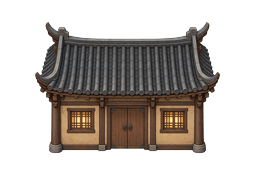
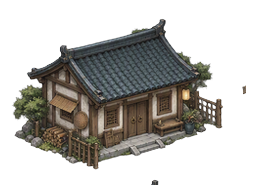
v0.33.0 逆尘：立体感 D —— 11 栋斜俯视 2.5D 建筑素材
拿到完整斜俯视观感的最后一步（前几步 A 接触阴影 / B 树加高 / C 建筑基座已做）。

1. 文生图出了 **11 栋斜俯视 2.5D 建筑**：house / shop / apothecary / smithy / alchemy /
   inn / temple / hall / tower / gate / ruin。
   每栋都**看得见屋顶 + 正面墙 + 门窗 + 基座** —— 这才是"斜俯视"的观感来源
   （正俯视只能看到屋顶，所以此前像"贴纸"）。
2. 出图方式：两张 **2×3 建筑集**（省额度），切片后各自等比内含进 256×192。
3. 取图链不变（`struct.<bk>` 优先、退回 `struct.<kind>`），只是把素材换成了 2.5D 的。
4. manifest 137 → 143 键。
5. ⚠ 匾额仍然**矢量叠加**（_drawPlaque），绝不烘进素材图 ——
   生图里的中文必然是乱码，且同一张图要复用到不同建筑。

验证：五条无头测试全绿；_shots/06b_solid_town.png 可见 2.5D 建筑。

diff --git a/www/assets/manifest.js b/www/assets/manifest.js
@@ -136,10 +136,16 @@
     "skill.shui": "assets/img/skill.shui.png",
     "skill.tu": "assets/img/skill.tu.png",
     "skill.wu": "assets/img/skill.wu.png",
+    "struct.alchemy": "assets/img/struct.alchemy.png",
     "struct.apothecary": "assets/img/struct.apothecary.png",
     "struct.gate": "assets/img/struct.gate.png",
+    "struct.hall": "assets/img/struct.hall.png",
     "struct.house": "assets/img/struct.house.png",
+    "struct.inn": "assets/img/struct.inn.png",
     "struct.ruin": "assets/img/struct.ruin.png",
-    "struct.shop": "assets/img/struct.shop.png"
+    "struct.shop": "assets/img/struct.shop.png",
+    "struct.smithy": "assets/img/struct.smithy.png",
+    "struct.temple": "assets/img/struct.temple.png",
+    "struct.tower": "assets/img/struct.tower.png"
   };
 })(typeof window !== 'undefined' ? window : this);

diff --git a/www/js/core/ns.js b/www/js/core/ns.js
@@ -3,4 +3,4 @@ window.G = window.G || {};
 /* 游戏内版本号（标题「关于」与关于页显示）。
    ⚠ **必须与 HANDOVER.md 头部「代码版本」一致** —— 它从 v0.0.2 起就没再同步过，
    一直显示成初始占位（v0.12.0 才发现）。由 smoke 的 `version.contract` 钉住。 */
-G.VERSION = 'v0.32.0';
+G.VERSION = 'v0.33.0';

diff --git a/tools/assets-build.py b/tools/assets-build.py
@@ -208,6 +208,16 @@ SIZES = {
     #   建筑尺寸从 3×5 到 6×5 都有，拉伸会让门窗比例各不相同。
     #   ⚠ 建筑名字一律**矢量叠加**（explore.js: _drawPlaque），**不要烘进图里**：
     #      生图里的中文必然是乱码，而且同一张图要复用到不同建筑。
+    # 建筑（v0.33.0 重出：**斜俯视 2.5D** —— 看得见屋顶 + 正面墙 + 门窗 + 基座）。
+    #   取图键 `struct.<bk>`（bk = 建筑类型：house/shop/apothecary/smithy/alchemy/inn/
+    #   temple/hall/tower/gate），没写 bk 才退回 `struct.<kind>`。
+    #   ⚠ 建筑匾额**一律矢量叠加**（explore.js: _drawPlaque），绝不烘进素材图。
+    'struct.smithy': (256, 192),
+    'struct.alchemy': (256, 192),
+    'struct.inn': (256, 192),
+    'struct.temple': (256, 192),
+    'struct.hall': (256, 192),
+    'struct.tower': (256, 192),
     'struct.house': (256, 192),
     'struct.apothecary': (256, 192),
     'struct.shop': (256, 192),

diff --git a/HANDOVER.md b/HANDOVER.md
@@ -1,6 +1,13 @@
 # 《逆尘》开发交接文档
 
-> 最后更新：2026-09-27 · 代码版本 **v0.32.0（面板滑入）** · 前一里程碑 v0.31.0
+> 最后更新：2026-09-27 · 代码版本 **v0.33.0（立体感 D：建筑斜俯视素材）** · 前一里程碑 v0.32.0
+> 本次增量（详见 §8 顶部）：
+> **立体感 D —— 重出建筑素材**（拿到完整斜俯视观感的最后一步）：
+> 用文生图出了 **11 栋斜俯视 2.5D 建筑**（house / shop / apothecary / smithy / alchemy /
+> inn / temple / hall / tower / gate / ruin）—— 每栋都**看得见屋顶 + 正面墙 + 门窗 + 基座**。
+> 出图方式：两张 **2×3 建筑集**（省额度），切片后各自等比内含进 256×192。
+> manifest 137 → **143 键**。取图链不变（`struct.<bk>` 优先、退回 `struct.<kind>`）。
+> ⚠ 匾额仍然**矢量叠加**（`_drawPlaque`），绝不烘进素材图。
 > 本次增量（详见 §8 顶部）：
 > **面板滑入**（用户多轮口径：「整个游戏还是和 PPT 网页一样」）——
 > 面板**直接出现**是"像 PPT"的典型症状之一。0.18s 内从下方 10px 滑到位 + 淡入（easeOutQuad）。
@@ -170,7 +177,7 @@
 | 打包 | Capacitor（`capacitor.config.json` 已配好，**但 `android/` 还没 init**） |
 | **线上试玩** | **https://milkteacoffee.github.io/nichen/** （GitHub Pages，Actions 部署，部署前会卡一道冒烟测试；见 §1.5） |
 | 代码量 | `www/js` ≈ 15.6k 行（37 个文件）；`tools/` ≈ 7.4k 行（无头测试与审查工具） |
-| 当前进度 | **M0 主线全通 + 天道意志（三协议云端模型）+ 19境/四界/15副本 + 签名秘术效果 + 20 Boss 立绘 + NPC 精灵/立绘全量替换 + 主角正面立绘 + 四界 28 区域层/建筑可进/副本入口随机落位 + 地狱难度体系（三碎片开道界）+ 区域裂隙与界门可见 + 副本入口面板 + 轮回殿飞升台（选下一世主界/调界域难度/碎片与称号）+ 飞升·道界·地狱成就 + 常驻底栏六功能 + 每一世经历回溯与设备标识 + 道界道则回廊九关固定试炼（斩三尸→证道→合道）+ 道晶经济 + 秘术飞升升品 + 降世按界起始境界与首区落点** + **野怪收益曲线已校准（各境界刷满 12–42 场，原大罗 60,895 场）** + **区域美术换皮（28 区 28 套配色与装饰物配方，U7 闭合）** + **底栏六面板主动关闭钮** + **角色面板四子页（总览/灵根/属性/境界）** + **M1 数据层（血煞教四敌 + 5 本灵阶功法 + 多段攻击 + 3 张程序化立绘）** + **M1 任务链 m1-1..m1-4（辨丹 / 探子战+抉择 1 / 赠功法 / 筑基丹两途径）** + **四项界面可用性修复（点地不被 HUD 吞 / NPC 不抖 / 四向头线对齐 / 战斗倒计时+下拉）** + **界面批二 8 项（HUD 四格+悬浮说明 / 功法下拉降序 / 境界突破入口 / 灵根九维方块图 / 储物五分类+悬浮 / 左侧任务追踪栏+路引 / 出口云雾传送阵 / 矮墙）** + **Boss 机制与天道心魔对战设计稿 v1.0（只出设计，未改数值）** + **M1 血夜 m1-5..m1-7（血煞据点 bloodhall 连战 / 抉择 2 护镇·护沈伯 / 沈伯燃命·遗言 / 筑基心魔·离乡与 M2 解锁）** + **界面批三（水墨主界面 / 战斗背景八主题 / 追踪栏左缘收缩 / 游戏内版本号归位）** + **UI 材质层改「云海仙雾」（深青紫流云面板 + 云纹角饰 + 云雾玉牌按钮，取代被否掉的宣纸）** + **战斗法力值（上限随境界与仙术功法 / 最低 10 点 / 等级越高耗越多 / 每回合回 5）** + **功法碎片（副本按档次掉 + 野外 6% 掉 + 10 片参悟一本）** + **六面板卷轴版式（左缘竖排标题带，底色仍云海）** + **底栏重构（功法/秘术并入角色子页 + 洞府 + 地图）** + **成就移到开局界面并与设备绑定（9→18 项）** + **主动轮回（洞府坐化，两步确认）** + **破境丹获取指引** + **框越界探针** + **文字遮挡修复 + 有序层探针** + **建筑换文生图素材 + 匾额** + **药铺商店（无剧情时开店）** + **战斗倒计时 15s 居中无进度条** + **战利品纯文字浮层** + **建筑门口必铺路** + **真地图（四界全貌 + 分界解锁）** + **破境成功率（封顶 95%）** + **濒死红屏 + 主角受击红帧** + **宗门与散修体系（21 宗门 / 功法互斥 / 每世一次转阵营 / 底栏第 6 项）** + **问道（每境一次 · 可赏可罚）** + **任务面板可点列表与主支线分列** + **角色组外框统一** + **区域地面文生图（4 主题 · 无缝）** + **28 区专属底图（按场景名定主题 · 四级取图链）** + **宗门 S2（入门试炼战 + 贡献兑换本门功法）** + **内容型支线（3 条 · 有 NPC 与剧情）** + **去 PPT 化动效层（行走/待机/树摇摆/区域粒子）** + **御剑飞行（金丹境起 · 抬高+剑光+免遭遇+越树）** + **副本每层三选一（8 条临时增益 · 只在本场副本有效）** + **宗门 S3（功法前置链 + 门派商店）** + **遇敌镜头缩放转场** + **法宝三槽（武器/防具/饰品）** + **功法来源改为任务授予** + **动效修正（树绕根旋转 / 行走相位连续）** + **破境天劫与天道对话** + **功法属性图标 10 + 法宝图标 16（法宝扩到 16 件）** + **追踪栏去浮动 / 名牌改悬浮** + **立体感第一步（装饰物接触阴影 + 视角对标稿）** + **点击卡死修复** + **立体感 B/C（树加高 + 建筑基座与投影）** + **法宝独立子页** + **洞府（原沈家小院）** + **战斗打击特效（刀光 + 属性色爆发）** + **地图精细化（道路连线 + 云雾）** + **面板滑入** |
+| 当前进度 | **M0 主线全通 + 天道意志（三协议云端模型）+ 19境/四界/15副本 + 签名秘术效果 + 20 Boss 立绘 + NPC 精灵/立绘全量替换 + 主角正面立绘 + 四界 28 区域层/建筑可进/副本入口随机落位 + 地狱难度体系（三碎片开道界）+ 区域裂隙与界门可见 + 副本入口面板 + 轮回殿飞升台（选下一世主界/调界域难度/碎片与称号）+ 飞升·道界·地狱成就 + 常驻底栏六功能 + 每一世经历回溯与设备标识 + 道界道则回廊九关固定试炼（斩三尸→证道→合道）+ 道晶经济 + 秘术飞升升品 + 降世按界起始境界与首区落点** + **野怪收益曲线已校准（各境界刷满 12–42 场，原大罗 60,895 场）** + **区域美术换皮（28 区 28 套配色与装饰物配方，U7 闭合）** + **底栏六面板主动关闭钮** + **角色面板四子页（总览/灵根/属性/境界）** + **M1 数据层（血煞教四敌 + 5 本灵阶功法 + 多段攻击 + 3 张程序化立绘）** + **M1 任务链 m1-1..m1-4（辨丹 / 探子战+抉择 1 / 赠功法 / 筑基丹两途径）** + **四项界面可用性修复（点地不被 HUD 吞 / NPC 不抖 / 四向头线对齐 / 战斗倒计时+下拉）** + **界面批二 8 项（HUD 四格+悬浮说明 / 功法下拉降序 / 境界突破入口 / 灵根九维方块图 / 储物五分类+悬浮 / 左侧任务追踪栏+路引 / 出口云雾传送阵 / 矮墙）** + **Boss 机制与天道心魔对战设计稿 v1.0（只出设计，未改数值）** + **M1 血夜 m1-5..m1-7（血煞据点 bloodhall 连战 / 抉择 2 护镇·护沈伯 / 沈伯燃命·遗言 / 筑基心魔·离乡与 M2 解锁）** + **界面批三（水墨主界面 / 战斗背景八主题 / 追踪栏左缘收缩 / 游戏内版本号归位）** + **UI 材质层改「云海仙雾」（深青紫流云面板 + 云纹角饰 + 云雾玉牌按钮，取代被否掉的宣纸）** + **战斗法力值（上限随境界与仙术功法 / 最低 10 点 / 等级越高耗越多 / 每回合回 5）** + **功法碎片（副本按档次掉 + 野外 6% 掉 + 10 片参悟一本）** + **六面板卷轴版式（左缘竖排标题带，底色仍云海）** + **底栏重构（功法/秘术并入角色子页 + 洞府 + 地图）** + **成就移到开局界面并与设备绑定（9→18 项）** + **主动轮回（洞府坐化，两步确认）** + **破境丹获取指引** + **框越界探针** + **文字遮挡修复 + 有序层探针** + **建筑换文生图素材 + 匾额** + **药铺商店（无剧情时开店）** + **战斗倒计时 15s 居中无进度条** + **战利品纯文字浮层** + **建筑门口必铺路** + **真地图（四界全貌 + 分界解锁）** + **破境成功率（封顶 95%）** + **濒死红屏 + 主角受击红帧** + **宗门与散修体系（21 宗门 / 功法互斥 / 每世一次转阵营 / 底栏第 6 项）** + **问道（每境一次 · 可赏可罚）** + **任务面板可点列表与主支线分列** + **角色组外框统一** + **区域地面文生图（4 主题 · 无缝）** + **28 区专属底图（按场景名定主题 · 四级取图链）** + **宗门 S2（入门试炼战 + 贡献兑换本门功法）** + **内容型支线（3 条 · 有 NPC 与剧情）** + **去 PPT 化动效层（行走/待机/树摇摆/区域粒子）** + **御剑飞行（金丹境起 · 抬高+剑光+免遭遇+越树）** + **副本每层三选一（8 条临时增益 · 只在本场副本有效）** + **宗门 S3（功法前置链 + 门派商店）** + **遇敌镜头缩放转场** + **法宝三槽（武器/防具/饰品）** + **功法来源改为任务授予** + **动效修正（树绕根旋转 / 行走相位连续）** + **破境天劫与天道对话** + **功法属性图标 10 + 法宝图标 16（法宝扩到 16 件）** + **追踪栏去浮动 / 名牌改悬浮** + **立体感第一步（装饰物接触阴影 + 视角对标稿）** + **点击卡死修复** + **立体感 B/C（树加高 + 建筑基座与投影）** + **法宝独立子页** + **洞府（原沈家小院）** + **战斗打击特效（刀光 + 属性色爆发）** + **地图精细化（道路连线 + 云雾）** + **面板滑入** + **立体感 D（11 栋斜俯视建筑素材）** |
 | 回归状态 | smoke · playthrough · rebirth · **dungeon-run（凡→灵→仙）** · **secret-test（秘术效果）** · **zone-curve（野怪收益曲线验算）** 全过；smoke 共 **38 条契约**（v0.18.0 新增 `map.world` / `break.chance` / `danger.warn` 三条；v0.17.0 新增 `shop.apothecary` / `battle.hud` / `door.path` 三条；v0.15.0 把「成就页越界」并进 `panels.bounds` 一段；v0.14.0 新增 `battle.mana` + `skill.shard` 两条；v0.13.0 新增 `mist.material` 一条；v0.12.0 新增 `ui.batch3` / `version` / `about.layout` 三条；v0.11.5 新增 `m1.bloodnight` 一条；v0.11.4 新增 `ui.batch2` + `ground.type` 两条；v0.11.3 新增 `m1.quest` 一条；v0.11.2 新增 `ui.fix` + `ui.fix.runtime` 两条；v0.11.1 新增 `m1.data` 一条 + 修掉 `zone.weights` 的时间播种假红；v0.11.0 新增 `region.tint` 一条 + `panels`/`panels.bounds` 两条增强；v0.10.0 批 `zone.curve` / `zone.curve.source` 两条 + 两条运行时差分探针；v0.9.0 批 `dao.trials` / `descend.world` 两条；v0.8.0 批四条同） |
 
 **最重要的一句话**：这个项目**没有构建步骤**。改完 `www/js/*.js` 直接刷新浏览器就能看到效果；
